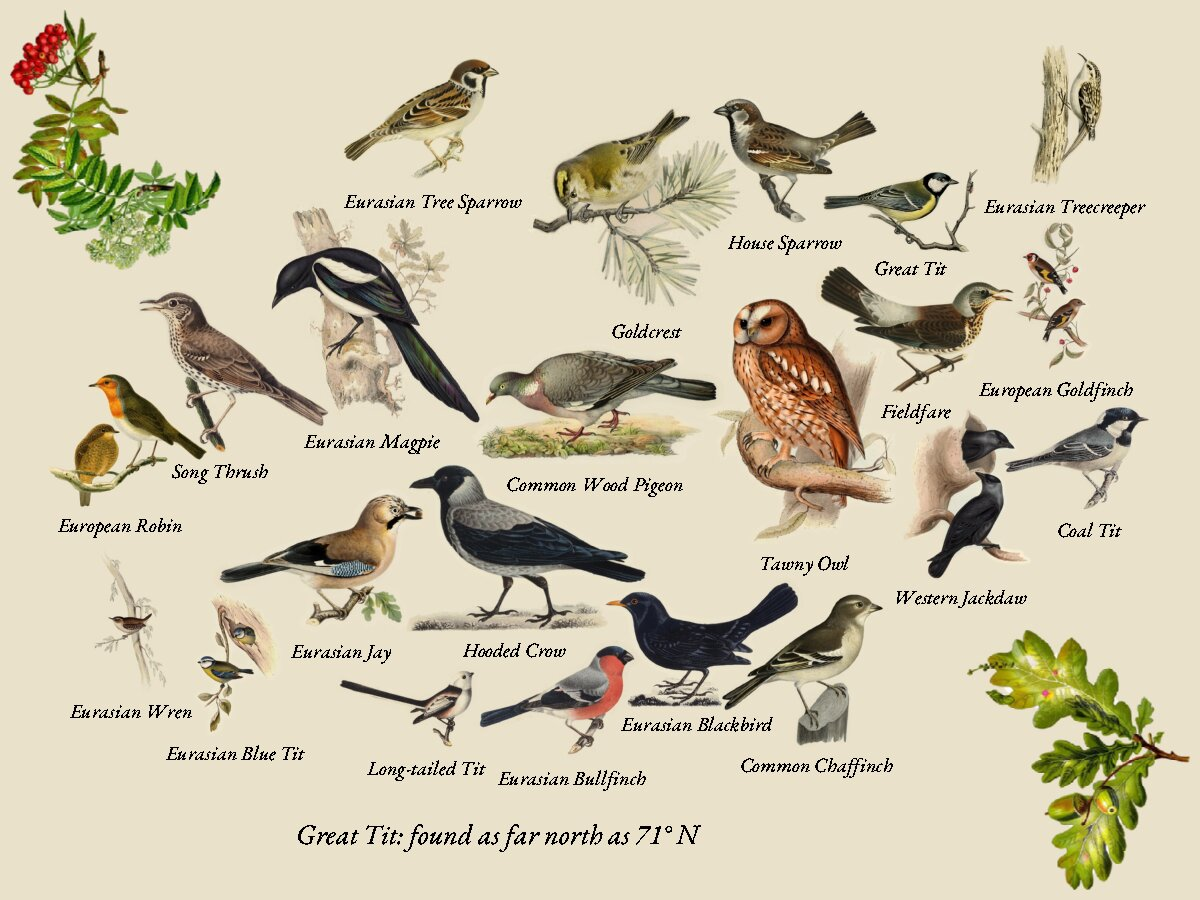
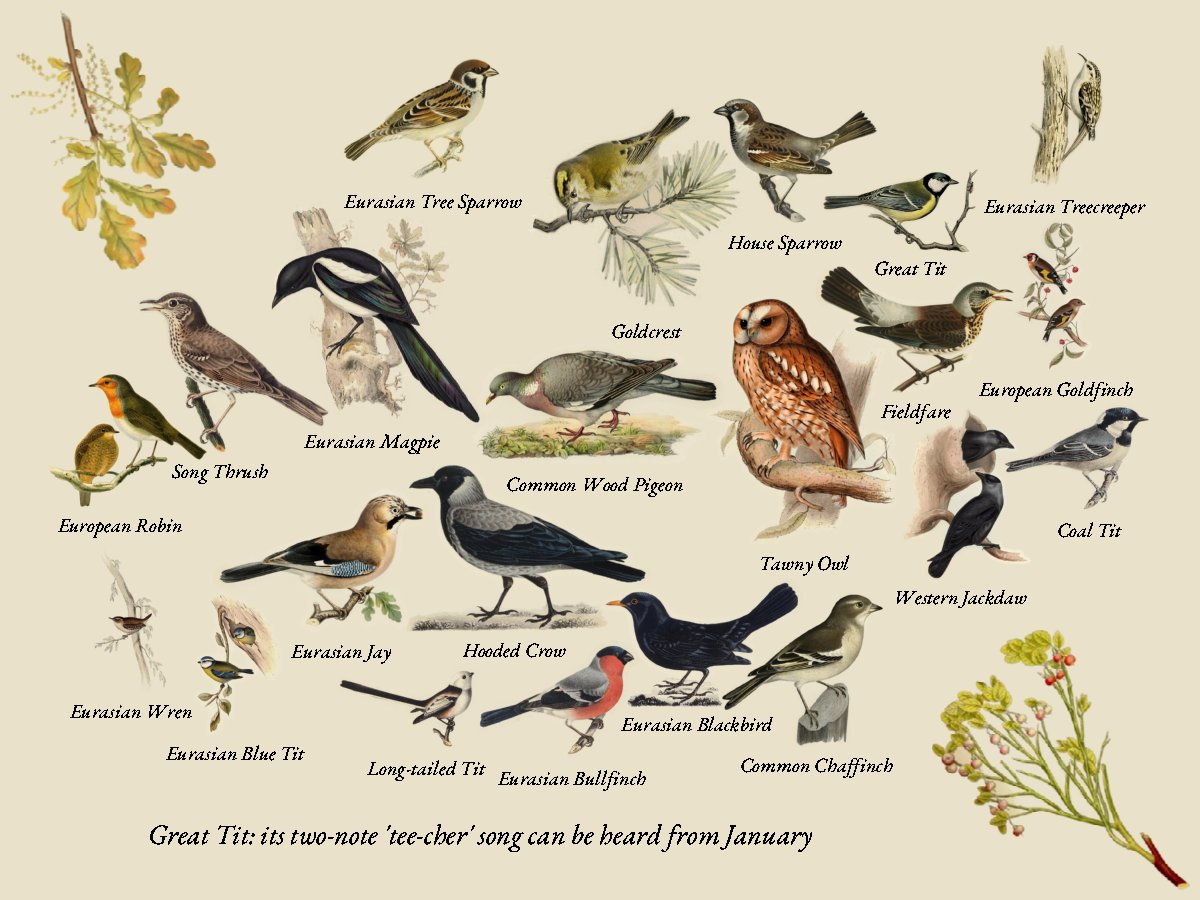
Border the pages with Swedish wild plants from Lindman's plates
The border's plants were Thomé's German plates, and some (Christmas rose,
holly) are not Swedish. They are now cut from Lindman's Bilder ur Nordens
Flora (public domain, scanned by Project Runeberg): spruce and juniper,
bird cherry and wood anemone, cornflower and buttercup, oak and bilberry,
mistletoe and lingonberry, pussy willow and coltsfoot, sticky catchfly
and harebell. The cutter scales the small scans up before cutting, tones
dense drawings by the plate's usual paper, and takes a lower bar for the
anemone's pale flower.

Claude-Session: https://claude.ai/code/session_01JrPyac6u1bGByCUQXqRrnt

diff --git a/assets/borders/cut_sprays.py b/assets/borders/cut_sprays.py
@@ -1,14 +1,14 @@
 #!/usr/bin/env python3
-"""Cuts the border sprays out of Thomé's botanical plates.
+"""Cuts the border sprays out of Lindman's botanical plates.
 
-Each spray is the main plant of one plate from Otto Wilhelm Thomé, *Flora von Deutschland,
-Österreich und der Schweiz* (1885), as scanned on Wikimedia Commons (public domain). The
-plate's paper is made transparent, its loose detail drawings, numbers and captions are left
-out, its paper tone is matched to the page's, and the plant is turned to lie in its corner.
+Each spray is the main plant of one plate from C. A. M. Lindman, *Bilder ur Nordens Flora*
+(1917 to 1926), as scanned by Project Runeberg (public domain). The plate's paper is made
+transparent, its loose detail drawings, numbers and captions are left out, its paper tone is
+matched to the page's, and the plant is turned to lie in its corner.
 
 Usage: cut_sprays.py PLATES_DIR OUT_DIR
-PLATES_DIR holds the plates as `<Genus>_<species>.jpg`: the Commons files
-`Illustration_<Genus>_<species>0.jpg`, at 1280 pixels wide (see ATTRIBUTION.md).
+PLATES_DIR holds the plates as `<Genus>_<species>.jpg`: Runeberg's
+`https://runeberg.org/nordflor/pics/<plate>.jpg` (see ATTRIBUTION.md for the numbers).
 Needs Pillow, NumPy and SciPy. Not run by the build: the sprays it writes are committed.
 """
 
@@ -23,26 +23,32 @@ from scipy import ndimage
 PAGE_PAPER = np.array([233, 225, 202], dtype=np.float32)
 # Longest side of a written spray, in pixels.
 MAX_SIDE = 480
+# How far from the paper's colour ink is, for a plate whose pale flower needs a lower bar.
+THRESHOLDS = {"Anemone_nemorosa": 22}
+# Pixels of gap, at WORK_WIDTH, across which pieces of ink count as one plant.
+JOIN = 2
+# Width the plates are scaled to before cutting.
+WORK_WIDTH = 1280
 
 # (theme, corner, plate, a box (left, top, right, bottom, as fractions) round the plant's
 # middle, boxes of other drawings to leave out where they touch it, degrees to turn
 # anticlockwise, mirror). The top spray hangs from the top-left
 # corner; the bottom one rises from the bottom-right.
 SPRAYS = [
-    ("frost", "top", "Viscum_album", (0.03, 0.22, 0.97, 0.93), [], 225, False),
-    ("frost", "bottom", "Helleborus_niger", (0.22, 0.04, 0.72, 0.95), [], 45, False),
-    ("blossom", "top", "Prunus_avium", (0.1, 0.1, 0.85, 0.9), [(0.88, 0.1, 1.0, 0.45)], 225, False),
-    ("blossom", "bottom", "Anemone_nemorosa", (0.1, 0.17, 0.85, 0.92), [], 45, False),
-    ("meadow", "top", "Centaurea_cyanus", (0.28, 0.03, 0.72, 0.92), [], 225, False),
-    ("meadow", "bottom", "Chrysanthemum_leucanthemum", (0.1, 0.03, 0.95, 0.92), [], 45, False),
-    ("autumn", "top", "Sorbus_aucuparia", (0.15, 0.1, 0.85, 0.9), [], 225, False),
-    ("autumn", "bottom", "Quercus_robur", (0.3, 0.4, 0.9, 0.85), [(0.0, 0.0, 0.42, 0.5)], 45, False),
-    ("christmas", "top", "Ilex_aquifolium", (0.04, 0.03, 0.96, 0.93), [], 225, False),
-    ("christmas", "bottom", "Viscum_album", (0.03, 0.22, 0.97, 0.93), [], 45, True),
-    ("easter", "top", "Salix_caprea", (0.05, 0.05, 0.97, 0.86), [], 225, False),
-    ("easter", "bottom", "Anemone_nemorosa", (0.1, 0.17, 0.85, 0.92), [], 45, True),
-    ("midsummer", "top", "Chrysanthemum_leucanthemum", (0.1, 0.03, 0.95, 0.92), [], 225, True),
-    ("midsummer", "bottom", "Centaurea_cyanus", (0.28, 0.03, 0.72, 0.92), [], 45, True),
+    ("frost", "top", "Picea_abies", (0.05, 0.02, 0.95, 0.8), [], 225, False),
+    ("frost", "bottom", "Juniperus_communis", (0.2, 0.02, 0.8, 0.8), [], 45, False),
+    ("blossom", "top", "Prunus_padus", (0.1, 0.05, 0.95, 0.6), [], 225, False),
+    ("blossom", "bottom", "Anemone_nemorosa", (0.15, 0.05, 0.85, 0.92), [], 45, False),
+    ("meadow", "top", "Centaurea_cyanus", (0.2, 0.03, 0.75, 0.9), [], 225, False),
+    ("meadow", "bottom", "Ranunculus_acris", (0.15, 0.03, 0.85, 0.92), [], 45, False),
+    ("autumn", "top", "Quercus_robur", (0.1, 0.03, 0.95, 0.75), [], 225, False),
+    ("autumn", "bottom", "Vaccinium_myrtillus", (0.2, 0.03, 0.85, 0.92), [], 45, False),
+    ("christmas", "top", "Viscum_album", (0.05, 0.03, 0.95, 0.65), [], 225, False),
+    ("christmas", "bottom", "Vaccinium_vitis-idaea", (0.05, 0.03, 0.8, 0.95), [], 45, False),
+    ("easter", "top", "Salix_caprea", (0.05, 0.03, 0.95, 0.75), [], 225, False),
+    ("easter", "bottom", "Tussilago_farfara", (0.2, 0.15, 0.95, 0.92), [], 45, False),
+    ("midsummer", "top", "Viscaria_vulgaris", (0.4, 0.0, 0.95, 0.95), [(0.0, 0.0, 0.42, 0.3)], 225, False),
+    ("midsummer", "bottom", "Campanula_rotundifolia", (0.3, 0.03, 0.95, 0.92), [], 45, False),
 ]
 
 
@@ -68,14 +74,26 @@ def paper_colour(pixels):
     return np.asarray(big, dtype=np.float32)
 
 
-def plant_mask(pixels, paper, keep, drops):
+def toning_paper(pixels, paper):
+    """`paper`, except where a dense drawing covers a wide patch: the lightest colour round
+    it is still ink there, and toning by it would paint the plant in false colours, so the
+    plate's usual paper is taken instead."""
+    lightness = paper.sum(axis=2)
+    usual = np.median(paper[lightness >= np.percentile(lightness, 50)], axis=0)
+    far = np.sqrt(((paper - usual) ** 2).sum(axis=2)) > 25
+    toned = paper.copy()
+    toned[far] = usual
+    return toned
+
+
+def plant_mask(pixels, paper, keep, drops, threshold):
     """Pixels that are the plant, not paper, with paper wholly enclosed by small loops of ink
     (petals, berries) filled in. The plant is the biggest piece of ink inside `keep` (left,
     top, right, bottom, as fractions), followed out past the box's edges so no leaf is cut
     off, but never into a `drops` box (a neighbouring drawing that touches it)."""
     height, width = pixels.shape[:2]
     distance = np.sqrt(((pixels - paper) ** 2).sum(axis=2))
-    ink = distance > 42
+    ink = distance > threshold
     # A scan's shadows are grey and a little darker than the paper; the plates' greys are
     # darker still, their whites lighter.
     chroma = pixels.max(axis=2) - pixels.min(axis=2)
@@ -96,7 +114,7 @@ def plant_mask(pixels, paper, keep, drops):
         ink[int(top * height):int(bottom * height), int(left * width):int(right * width)] = False
     ink = ndimage.binary_opening(ink, iterations=1)
     # Merge the plant's parts across small gaps.
-    joined = ndimage.binary_dilation(ink, iterations=2)
+    joined = ndimage.binary_dilation(ink, iterations=JOIN)
     left, top, right, bottom = keep
     box = np.zeros_like(ink)
     box[int(top * height):int(bottom * height), int(left * width):int(right * width)] = True
@@ -118,10 +136,14 @@ def plant_mask(pixels, paper, keep, drops):
 
 def cut(path, keep, drops, degrees, mirror):
     image = Image.open(path).convert("RGB")
+    # The cutter's sizes are tuned to plates WORK_WIDTH pixels wide.
+    height = round(image.height * WORK_WIDTH / image.width)
+    image = image.resize((WORK_WIDTH, height), Image.Resampling.BICUBIC)
     pixels = np.asarray(image, dtype=np.float32)
     paper = paper_colour(pixels)
-    mask = plant_mask(pixels, paper, keep, drops)
+    mask = plant_mask(pixels, paper, keep, drops, THRESHOLDS.get(path.stem, 42))
     # Tone the plate's paper to the page's, so the spray's edges sit on one sheet.
+    paper = toning_paper(pixels, paper)
     toned = np.clip(pixels * (PAGE_PAPER / np.maximum(paper, 1)), 0, 255)
     alpha = ndimage.gaussian_filter(mask.astype(np.float32), 1.0)
     rgba = np.dstack([toned, alpha * 255]).astype(np.uint8)

diff --git a/crates/frame-layout/src/border_theme.rs b/crates/frame-layout/src/border_theme.rs
@@ -6,19 +6,19 @@ use core::str::FromStr;
 /// A seasonal or holiday border: which plants' [`crate::CornerSprays`] the page wears.
 #[derive(Clone, Copy, Debug, PartialEq, Eq, Hash)]
 pub enum BorderTheme {
-    /// Winter: mistletoe and Christmas rose.
+    /// Winter: spruce and juniper.
     Frost,
     /// Spring: bird cherry in flower and wood anemone.
     Blossom,
-    /// Summer: cornflower and ox-eye daisy.
+    /// Summer: cornflower and meadow buttercup.
     Meadow,
-    /// Autumn: rowan berries, oak and acorns.
+    /// Autumn: oak in autumn colour and bilberry.
     Autumn,
-    /// From Lucia (13 December) to Epiphany (6 January): holly and mistletoe.
+    /// From Lucia (13 December) to Epiphany (6 January): mistletoe and lingonberry.
     Christmas,
-    /// From Palm Sunday to Easter Monday: pussy willow and wood anemone.
+    /// From Palm Sunday to Easter Monday: pussy willow and coltsfoot.
     Easter,
-    /// Midsummer, 19 to 25 June: ox-eye daisy and cornflower.
+    /// Midsummer, 19 to 25 June: sticky catchfly and harebell.
     Midsummer,
 }
 

diff --git a/crates/art-webp/src/border_sprays.rs b/crates/art-webp/src/border_sprays.rs
@@ -31,8 +31,8 @@ const SPRAYS: &[(&str, &[u8])] = sprays![
     "midsummer",
 ];
 
-/// The plants the page's borders are made of, cut from the hand-coloured plates of Thomé's
-/// *Flora von Deutschland, Österreich und der Schweiz* (1885, public domain; see
+/// The plants the page's borders are made of: Swedish wild plants cut from the hand-coloured
+/// plates of Lindman's *Bilder ur Nordens Flora* (1901 to 1926, public domain; see
 /// `assets/borders/ATTRIBUTION.md`). Each theme has a spray named `<theme>-top`, which hangs
 /// from the page's top-left corner, and `<theme>-bottom`, which rises from its bottom-right.
 ///

diff --git a/assets/borders/ATTRIBUTION.md b/assets/borders/ATTRIBUTION.md
@@ -1,24 +1,28 @@
 # Border sprays
 
-The plants in the page's border are cut from the hand-coloured plates of Otto Wilhelm Thomé,
-*Flora von Deutschland, Österreich und der Schweiz in Wort und Bild für Schule und Haus*
-(Gera, 1885), drawn by Walter Müller. The plates are in the **public domain**: Thomé died in
-1885 and Müller in 1927, and the book was published more than 95 years ago. The scans are from
-Wikimedia Commons, which marks them public domain; no licence is needed, and this credit is a
-courtesy.
+The plants in the page's border are Swedish wild plants, cut from the hand-coloured plates of
+C. A. M. Lindman, *Bilder ur Nordens Flora* (third edition, Wahlström & Widstrand, Stockholm,
+1917 to 1926; first published 1901 to 1905). The plates are in the **public domain**: Lindman
+died in 1928, and the book was published more than 95 years ago. The scans are Project
+Runeberg's ([runeberg.org/nordflor](https://runeberg.org/nordflor/)), which publishes them
+freely; no licence is needed, and this credit is a courtesy.
 
-| Spray | Plant | Commons file |
+| Spray | Plant | Plate |
 | --- | --- | --- |
-| `frost-top`, `christmas-bottom` | Mistletoe, *Viscum album* | [Illustration_Viscum_album0.jpg](https://commons.wikimedia.org/wiki/File:Illustration_Viscum_album0.jpg) |
-| `frost-bottom` | Christmas rose, *Helleborus niger* | [Illustration_Helleborus_niger0.jpg](https://commons.wikimedia.org/wiki/File:Illustration_Helleborus_niger0.jpg) |
-| `blossom-top` | Bird cherry, *Prunus padus* (Thomé's *Padus avium*) | [Illustration_Prunus_avium0.jpg](https://commons.wikimedia.org/wiki/File:Illustration_Prunus_avium0.jpg) |
-| `blossom-bottom`, `easter-bottom` | Wood anemone, *Anemone nemorosa* | [Illustration_Anemone_nemorosa0.jpg](https://commons.wikimedia.org/wiki/File:Illustration_Anemone_nemorosa0.jpg) |
-| `meadow-top`, `midsummer-bottom` | Cornflower, *Centaurea cyanus* | [Illustration_Centaurea_cyanus0.jpg](https://commons.wikimedia.org/wiki/File:Illustration_Centaurea_cyanus0.jpg) |
-| `meadow-bottom`, `midsummer-top` | Ox-eye daisy, *Leucanthemum vulgare* | [Illustration_Chrysanthemum_leucanthemum0.jpg](https://commons.wikimedia.org/wiki/File:Illustration_Chrysanthemum_leucanthemum0.jpg) |
-| `autumn-top` | Rowan, *Sorbus aucuparia* | [Illustration_Sorbus_aucuparia0.jpg](https://commons.wikimedia.org/wiki/File:Illustration_Sorbus_aucuparia0.jpg) |
-| `autumn-bottom` | Pedunculate oak, *Quercus robur* | [Illustration_Quercus_robur0.jpg](https://commons.wikimedia.org/wiki/File:Illustration_Quercus_robur0.jpg) |
-| `christmas-top` | Holly, *Ilex aquifolium* | [Illustration_Ilex_aquifolium0.jpg](https://commons.wikimedia.org/wiki/File:Illustration_Ilex_aquifolium0.jpg) |
-| `easter-top` | Goat willow, *Salix caprea* | [Illustration_Salix_caprea0.jpg](https://commons.wikimedia.org/wiki/File:Illustration_Salix_caprea0.jpg) |
+| `frost-top` | Spruce, *Picea abies* (gran) | [495](https://runeberg.org/nordflor/495.html), `pics/495.jpg` |
+| `frost-bottom` | Juniper, *Juniperus communis* (en) | [497](https://runeberg.org/nordflor/497.html), `pics/497.jpg` |
+| `blossom-top` | Bird cherry, *Prunus padus* (hägg) | [312](https://runeberg.org/nordflor/312.html), `pics/312.jpg` |
+| `blossom-bottom` | Wood anemone, *Anemone nemorosa* (vitsippa) | [170](https://runeberg.org/nordflor/170.html), `pics/170.jpg` |
+| `meadow-top` | Cornflower, *Centaurea cyanus* (blåklint) | [7](https://runeberg.org/nordflor/7.html), `pics/7.jpg` |
+| `meadow-bottom` | Meadow buttercup, *Ranunculus acris* (smörblomma) | [159](https://runeberg.org/nordflor/159.html), `pics/159.jpg` |
+| `autumn-top` | Pedunculate oak, *Quercus robur* (ek) | [368](https://runeberg.org/nordflor/368.html), `pics/368.jpg` |
+| `autumn-bottom` | Bilberry, *Vaccinium myrtillus* (blåbär) | [141](https://runeberg.org/nordflor/141.html), `pics/141.jpg` |
+| `christmas-top` | Mistletoe, *Viscum album* (mistel) | [363](https://runeberg.org/nordflor/363.html), `pics/363.jpg` |
+| `christmas-bottom` | Lingonberry, *Vaccinium vitis-idaea* (lingon) | [143](https://runeberg.org/nordflor/143.html), `pics/143.jpg` |
+| `easter-top` | Goat willow, *Salix caprea* (sälg) | [377](https://runeberg.org/nordflor/377.html), `pics/377.jpg` |
+| `easter-bottom` | Coltsfoot, *Tussilago farfara* (hästhov) | [23](https://runeberg.org/nordflor/23.html), `pics/23.jpg` |
+| `midsummer-top` | Sticky catchfly, *Viscaria vulgaris* (tjärblomster) | [341](https://runeberg.org/nordflor/341.html), `pics/341.jpg` |
+| `midsummer-bottom` | Harebell, *Campanula rotundifolia* (liten blåklocka) | [53](https://runeberg.org/nordflor/53.html), `pics/53.jpg` |
 
 `cut_sprays.py` made the `.webp` files from the scans: it keeps each plate's main plant (leaving
 out the numbered details and captions), makes the paper transparent, tones the plate's paper to

diff --git a/docs/explanation/pages-and-views.md b/docs/explanation/pages-and-views.md
@@ -70,7 +70,7 @@ out.
 
 ## A fact about the main bird
 
-![Today's collage in autumn's border of rowan and oak, with a line about the great tit at its foot](../images/view-today.jpg)
+![Today's collage in autumn's border of oak and bilberry, with a line about the great tit's song at its foot](../images/view-today.jpg)
 
 Today's, the week's and the rarest page end with one line about their main bird, the one drawn
 first: a bird new for the year, the rarest, or else the most heard. The line tells something
@@ -102,20 +102,20 @@ translated (keys `fact_*` in [Translations](../reference/configuration.md#transl
 ![The seven borders on a portrait page: frost, blossom, meadow, autumn, Christmas, Easter and Midsummer, each a plant from a botanical plate in the top-left and bottom-right corners](../images/borders.jpg)
 
 Every page wears a border of the season's plants: a spray hanging from the top-left corner and
-one rising from the bottom-right, cut from the hand-coloured plates of Thomé's *Flora von
-Deutschland, Österreich und der Schweiz* (1885), the same kind of period plate as the birds.
+one rising from the bottom-right. They are Swedish wild plants, cut from the hand-coloured
+plates of C. A. M. Lindman's *Bilder ur Nordens Flora* (1901 to 1926), the same kind of period plate as the birds.
 They are public domain and built into the program (`assets/borders/`, credited in its
 `ATTRIBUTION.md`); nothing in the border is drawn by code. It changes with the date:
 
 | Border | When | Top left | Bottom right |
 | --- | --- | --- | --- |
-| Frost | December to February | Mistletoe | Christmas rose |
-| Blossom | March to May | Bird cherry in flower | Wood anemone |
-| Meadow | June to August | Cornflower | Ox-eye daisy |
-| Autumn | September to November | Rowan berries | Oak and acorns |
-| Christmas | 13 December (Lucia) to 6 January | Holly | Mistletoe |
-| Easter | Palm Sunday to Easter Monday | Pussy willow | Wood anemone |
-| Midsummer | 19 to 25 June | Ox-eye daisy | Cornflower |
+| Frost | December to February | Spruce (gran) | Juniper (en) |
+| Blossom | March to May | Bird cherry in flower (hägg) | Wood anemone (vitsippa) |
+| Meadow | June to August | Cornflower (blåklint) | Meadow buttercup (smörblomma) |
+| Autumn | September to November | Oak in autumn colour (ek) | Bilberry (blåbär) |
+| Christmas | 13 December (Lucia) to 6 January | Mistletoe (mistel) | Lingonberry (lingon) |
+| Easter | Palm Sunday to Easter Monday | Pussy willow (sälg) | Coltsfoot (hästhov) |
+| Midsummer | 19 to 25 June | Sticky catchfly (tjärblomster) | Harebell (blåklocka) |
 
 On the collage the birds are packed round the plants, by their outlines, as they are round each
 other. On the list, story and season pages each spray fits the corner beside the heading or the

diff --git a/docs/reference/configuration.md b/docs/reference/configuration.md
@@ -20,7 +20,7 @@ The server reads environment variables at start-up.
 | `MAX_BIRDS` | `0` | number | Most birds on a page, most heard first. `0` shows every bird heard, as fugleramme does. |
 | `NAMES` | `true` | `true` or `false` | Whether the collage writes each bird's name under it. |
 | `FACTS` | `true` | `true` or `false` | Whether today's, the week's and the rarest page end with one line about their main bird (the first one: a bird new for the year, the rarest, or the most heard), something special about it, a different one each day. From tables built into the server; nothing is looked up online. See [Pages and views](../explanation/pages-and-views.md#a-fact-about-the-main-bird). |
-| `BORDER` | `season` | `season`, `off`, or a theme | The border of plants from period botanical plates in two corners of every page. `season` follows the date: mistletoe and Christmas rose in winter, blossom in spring, meadow flowers in summer, rowan and oak in autumn, and holly, pussy willow or Midsummer daisies on those holidays. A theme's name (`frost`, `blossom`, `meadow`, `autumn`, `christmas`, `easter`, `midsummer`) keeps that one all year. A negative `LATITUDE` turns the seasons round. See [Pages and views](../explanation/pages-and-views.md#seasonal-borders). |
+| `BORDER` | `season` | `season`, `off`, or a theme | The border of plants from period botanical plates in two corners of every page. `season` follows the date, with Swedish wild plants: spruce and juniper in winter, bird cherry and wood anemone in spring, cornflower and buttercup in summer, oak and bilberry in autumn, and mistletoe and lingonberry, pussy willow and coltsfoot, or catchfly and harebell on those holidays. A theme's name (`frost`, `blossom`, `meadow`, `autumn`, `christmas`, `easter`, `midsummer`) keeps that one all year. A negative `LATITUDE` turns the seasons round. See [Pages and views](../explanation/pages-and-views.md#seasonal-borders). |
 | `HEADING` | unset | text | A heading over the page. Unset: none on the collage (birds only, like fugleramme), the translated "Heard in the garden" on the list. |
 | `LANGUAGE` | `en` | language code | Language of the page's own words (heading, "No birds heard yet", "Updated 07:30"), e.g. `sv`, `nb`, `de`, `pt-BR`. A regional code falls back to its main language, then to English. Bird names come from BirdNET-Go in its own language setting. |
 | `TRANSLATIONS` | unset | file | A translations JSON adding languages or overriding words; see below. |

diff --git a/README.md b/README.md
@@ -27,8 +27,9 @@ Besides today's birds, a frame can show the week, today's rarest birds, the day'
 year so far (`view=`), each frame its own layout and page (`FRAMES`). A bird new for the year is
 drawn first and biggest, and frames wake every 5 minutes while it is about. The bird pages end
 with something special about their main bird, a habit, song, record or folklore (built in, no cloud), and every page wears a
-seasonal border of plants cut from 1885 botanical plates: mistletoe, blossom, meadow flowers,
-rowan and oak, and holly, pussy willow or Midsummer daisies on those holidays. On every ESP32 frame the previous and next
+seasonal border of Swedish wild plants cut from Lindman's botanical plates: spruce and juniper,
+bird cherry and wood anemone, cornflower and buttercup, oak and bilberry, and lingonberry, pussy
+willow or catchfly on those holidays. On every ESP32 frame the previous and next
 buttons step through all five pages. Frames report battery and last wake to Home Assistant. See [Pages and views](docs/explanation/pages-and-views.md).
 
 | The day so far | The year so far |
@@ -289,8 +290,8 @@ Formatting and the lints it names are enforced in CI (see `rustfmt.toml` and the
   by outline, names tucked under each bird, mass-based sizing), the paper-halo blending and
   panel boost, and the curated 1800s bird artwork this server draws. Code under the MIT License;
   artwork under CC BY-SA 4.0. Credit appears here and in `NOTICE.md`, never on the page itself.
-- **Otto Wilhelm Thomé**, *Flora von Deutschland, Österreich und der Schweiz* (1885): the
-  hand-coloured plates the border's plants are cut from, public domain, via Wikimedia Commons
+- **C. A. M. Lindman**, *Bilder ur Nordens Flora* (1901 to 1926): the hand-coloured plates the
+  border's plants are cut from, public domain, as scanned by Project Runeberg
   (`assets/borders/ATTRIBUTION.md`).
 - **[BirdNET-Go](https://github.com/tphakala/birdnet-go)** by tphakala and contributors:
   the bird detection this frame displays. The BirdNET model is by the Cornell Lab of Ornithology

diff --git a/AGENTS.md b/AGENTS.md
@@ -96,7 +96,7 @@ often get wrong:
   `OutlineArt`, plain ovals that look like nothing but a shape. Screenshots for docs, PRs and
   reviews are rendered with `ART_DIR=art/classic`.
 - **Never draw made-up ornament either.** Borders and other decoration are real public-domain
-  plates (`assets/borders/`, cut from Thomé's *Flora*, credited in its `ATTRIBUTION.md`), never
+  plates (`assets/borders/`, cut from Lindman's *Bilder ur Nordens Flora*, credited in its `ATTRIBUTION.md`), never
   shapes drawn by code or generated pictures. New decoration means finding and crediting real
   period art.
 - Never commit fugleramme's artwork (CC BY-SA, ~250 MB): `scripts/fetch-art.sh` downloads it into

diff --git a/NOTICE.md b/NOTICE.md
@@ -85,9 +85,10 @@ CC BY-NC-SA 4.0: https://github.com/tphakala/birdnet-go
 
 ## Border plants
 
-The border's plants in `assets/borders/` are cut from the hand-coloured plates of Otto Wilhelm
-Thomé's *Flora von Deutschland, Österreich und der Schweiz* (1885), as scanned on Wikimedia
-Commons. Public domain; see `assets/borders/ATTRIBUTION.md` for each plate.
+The border's plants in `assets/borders/` are cut from the hand-coloured plates of C. A. M.
+Lindman's *Bilder ur Nordens Flora* (third edition, Stockholm, 1917 to 1926), as scanned by
+Project Runeberg (https://runeberg.org/nordflor/). Public domain; see
+`assets/borders/ATTRIBUTION.md` for each plate.
 
 ## Fonts
 
